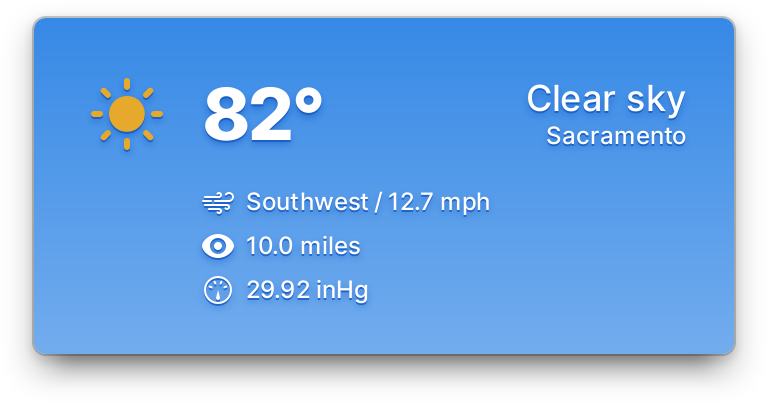
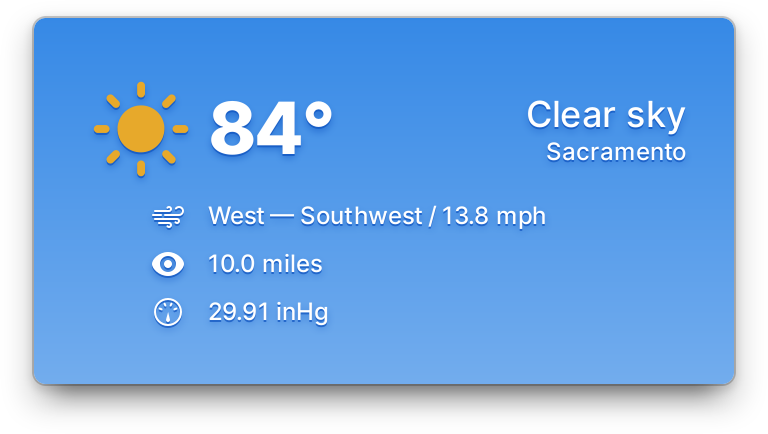
Use css, line things up

diff --git a/data/Application.css b/data/Application.css
@@ -25,6 +25,23 @@ window spinner {
     margin: 2em;
 }
 
+image.weather-icon {
+    -gtk-icon-size: 5.333em; /* 48px */
+}
+
+image:not(.weather-icon) {
+    min-height: 2em;
+
+}
+
+image:not(.weather-icon):dir(ltr) {
+    margin-right: 1em;
+}
+
+image:not(.weather-icon):dir(rtl) {
+    margin-left: 1em;
+}
+
 .weather {
     padding: 2em;
     font-weight: 500;
